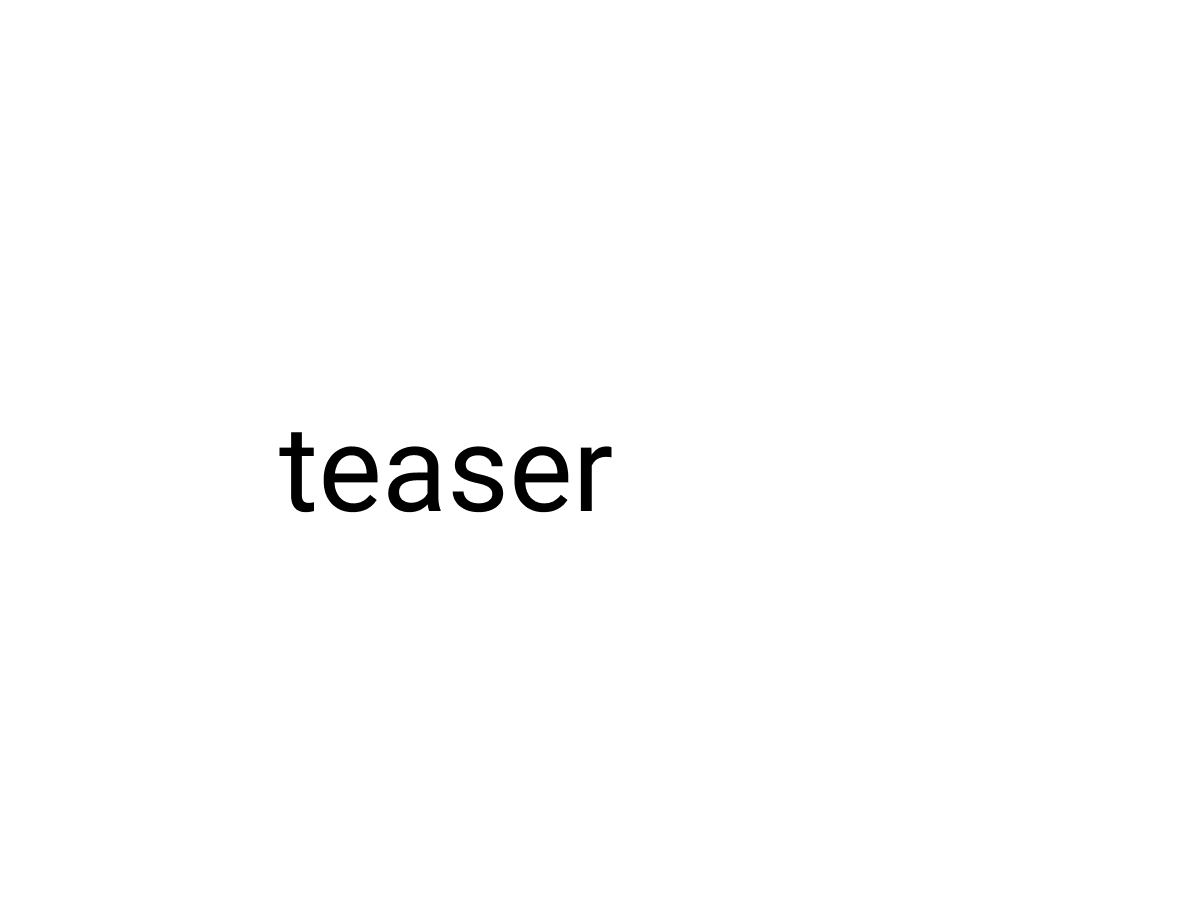
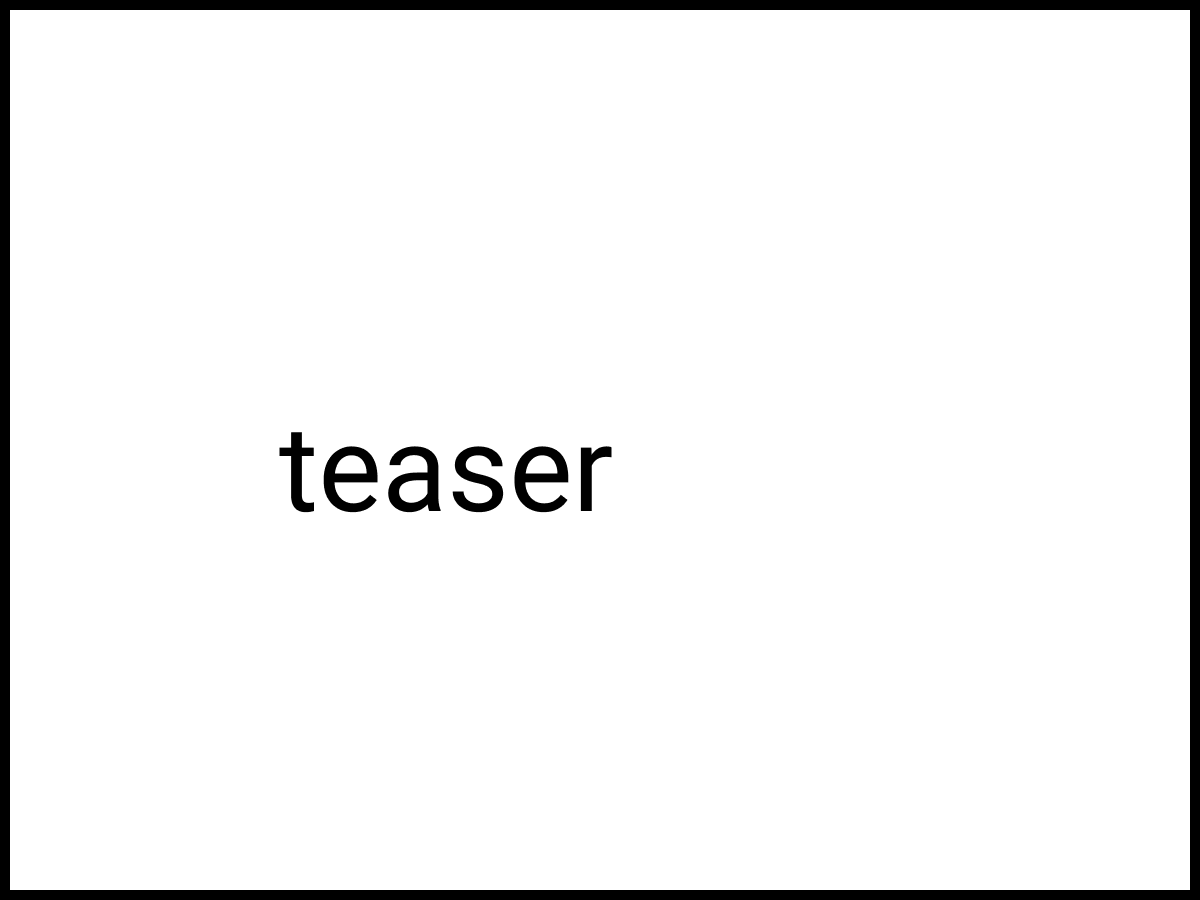
Added roadkiller outline.

Changed region(s): [[0.0, 0.0, 1.0, 1.0]]

diff --git a/project/RoadKiller/RoadKiller.html b/project/RoadKiller/RoadKiller.html
@@ -61,54 +61,20 @@
         <div data-ix="show-project-nav">
             <div class="no-bottom-pad project-container">
                 <div class="w-row" data-ix="fade-in-on-scroll">
-                    <img class="project-image" src="DesignThinking.png">
+                    <img class="project-image" src="GameJamBackground.png">
                 </div>
-                <div class="slider w-slider add-info" data-animation="cross" data-autoplay-limit="4" data-duration="500" data-infinite="1" data-nav-spacing="8">
-                    <div class="w-slider-mask">
-                        <div class="slide-image w-slide" style="background-image: url('slider_KLM.gif');"></div>
-                        <div class="slide-image w-slide" style="background-image: url('slider_CE.gif');"></div>
-                        <div class="slide-image w-slide" style="background-image: url('slider_FittsLaw.gif');"></div>
-                        <div class="slide-image w-slide" style="background-image: url('slider_HickHyman.gif');"></div>
-                    </div>
-                    <div class="left-arrow w-slider-arrow-left"><img src="../../img/Left_arrow.svg"></div>
-                    <div class="right-arrow w-slider-arrow-right"><img class="arrow-icon" src="../../img/Right_arrow.svg"></div>
-                    <div class="slide-nav w-round w-shadow w-slider-nav"></div>
+                <div class="w-row" data-ix="fade-in-on-scroll">
+                    <img class="project-image" src="GameDesign.png">
                 </div>
-                <div class="add-info" data-ix="fade-in-on-scroll" style="margin-top: 100px">
-                    <div class="w-row">
-                        <div class="creative-services w-col w-col-4">
-                            <h1 style="text-align: left;">Keystroke-Level Model (KLM)</h1>
-                            <div class="thin-line"></div>
-                            <div class="w-richtext">
-                                <h5>A predictive model on the time it takes for an expert user to accomplish a routine task without errors using an interactive computer system.</h5></div>
-                        </div>
-                        <div class="creative-services w-col w-col-4">
-                            <h1 style="text-align: left;">Consumed Endurance</h1>
-                            <div class="thin-line"></div>
-                            <div class="w-richtext">
-                                <h5>A predictive model on the fatigue or consumed energy of a user from sustaining an interaction.</h5></div>
-                        </div>
-                        <div class="creative-services w-col w-col-4">
-                            <h1 style="text-align: left;">Fitts' Law</h1>
-                            <div class="thin-line"></div>
-                            <div class="w-richtext">
-                                <h5>A predictive model of human movement, often used to model the act of pointing.</h5></div>
-                        </div>
+                <div class="w-row" data-ix="fade-in-on-scroll" style="padding-left: 15%; padding-right: 15%; padding-bottom: 5%">
+                    <h2>A quick & dirty video demo</h2>
+                    <p>to explain interactions (to the front-end dev team)<br><br></p>
+                    <div class="w-video">
+                        <iframe width="960" height="540" src="https://www.youtube.com/embed/BOs5wq_TpNg" frameborder="0" allow="accelerometer; autoplay; encrypted-media; gyroscope; picture-in-picture" allowfullscreen></iframe>
                     </div>
-                    <div class="w-row">
-                        <div class="creative-services w-col w-col-4">
-                            <h1 style="text-align: left;">Hick-Hyman Law</h1>
-                            <div class="thin-line"></div>
-                            <div class="w-richtext">
-                                <h5>A description on the time it takes for a person to make a decision as a result of the possible choices he or she has.</h5></div>
-                        </div>
-                        <div class="creative-services w-col w-col-4">
-                            <h1 style="text-align: left;">Multiple Resource Theory</h1>
-                            <div class="thin-line"></div>
-                            <div class="w-richtext">
-                                <h5>A predictive model on the relative differences in task interference between different task configurations.</h5></div>
-                        </div>
-                    </div>
+                </div>
+                <div class="w-row" data-ix="fade-in-on-scroll">
+                    <img class="project-image" src="BackstageProcess.png">
                 </div>
                 <div class="add-info w-richtext">
                     <p>Independent work designed and developed by me, under the instruction of prof. Antti Oulasvirta, during my summer intern as a research assistant at <a href="https://userinterfaces.aalto.fi/">User Interfaces research group</a> (Espoo, Finland) | Jun. - Aug. 2017
